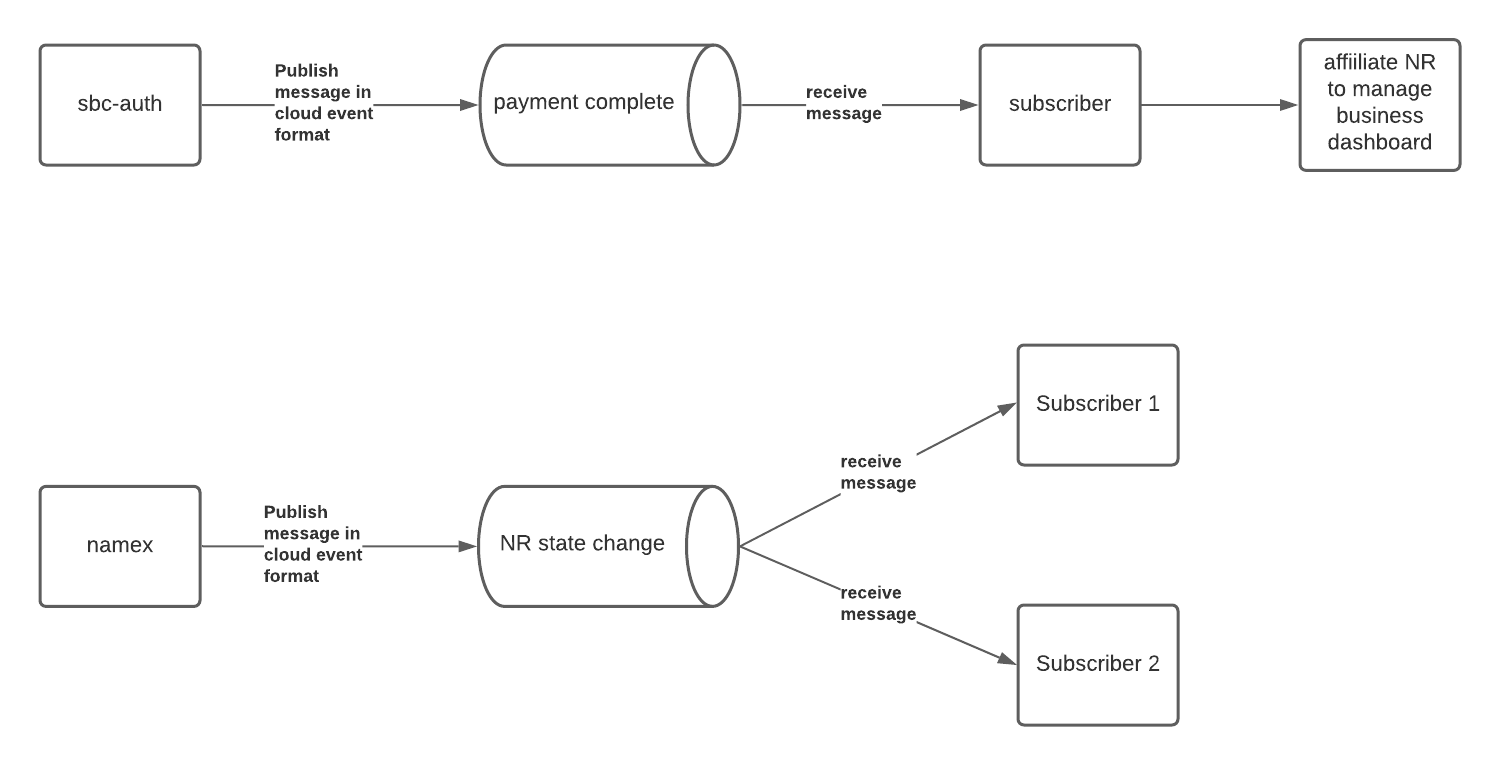
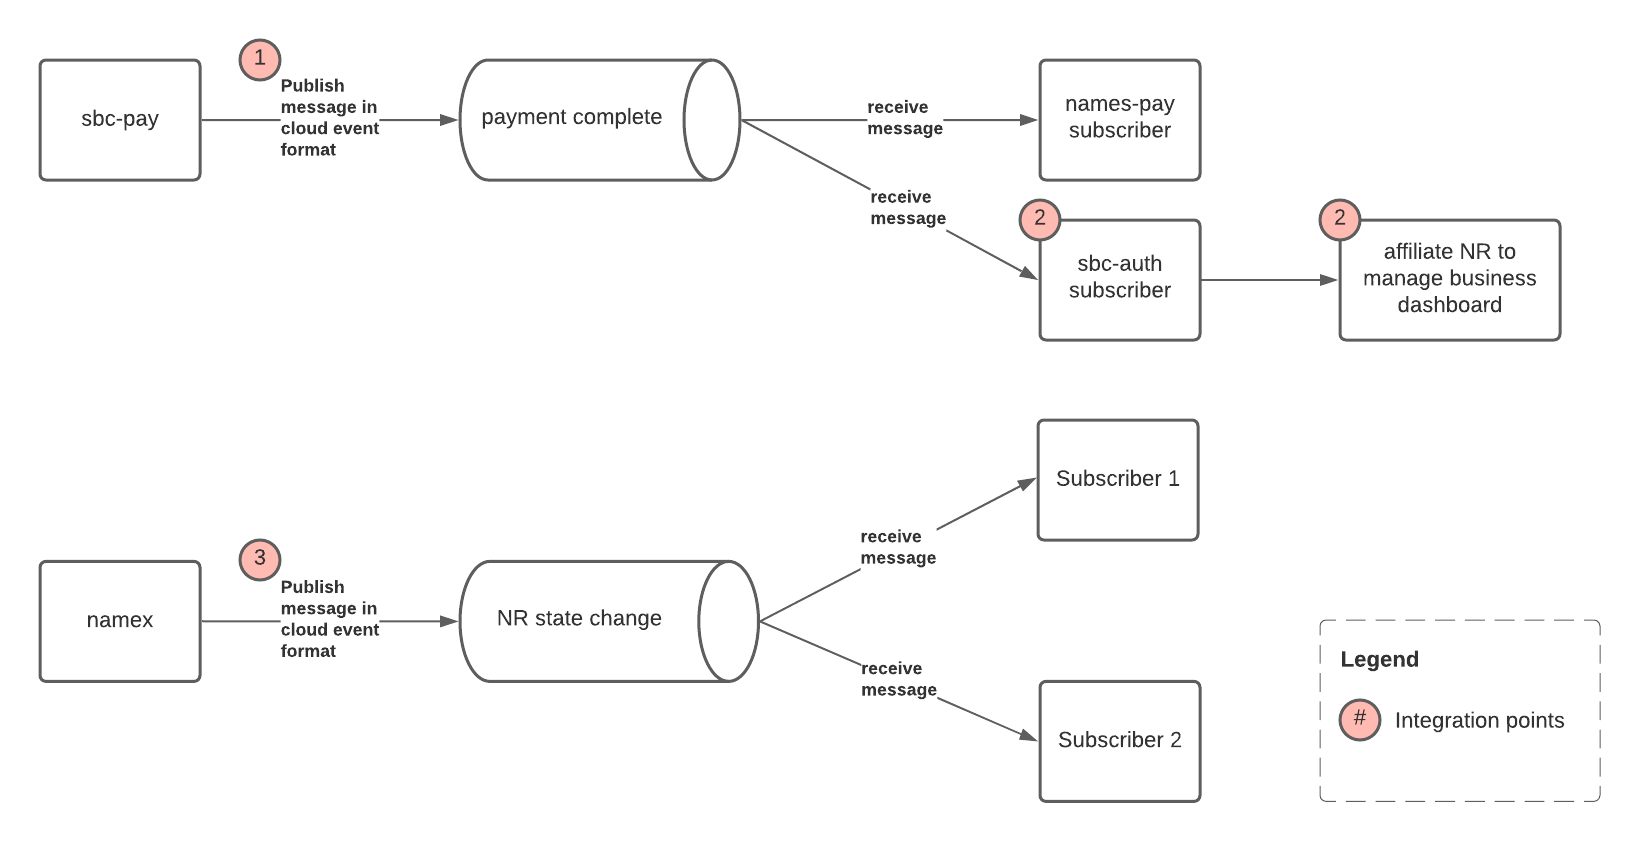
7984 Update diagram, add/update design details(integration points), add CloudEvent attributes usage section (WIP)

diff --git a/rfcs/rfc-cloud-events-for-name-request.md b/rfcs/rfc-cloud-events-for-name-request.md
@@ -1,12 +1,12 @@
 - Start Date: 2021-06-21
-- Target Major Version: 
+- Target Major Version:
 - Reference Issues: n/a
 - Entity Issue: https://github.com/bcgov/entity/issues/7975
 - Implementation PR: (leave this empty)
 
 # Summary
 
-Name Request will publish messages using the CloudEvent standard to a queue when a NR has been paid for or when a 
+Name Request will publish messages using the CloudEvent standard to a queue when a NR has been paid for or when a
 state change occurs for a NR.  The events will be published to a specific subject and relevant
 applications/services will be able to subscribe to the subject, consuming the events as required.
 
@@ -15,7 +15,7 @@ As such, some of the queue common code can be leveraged during implementation._
 
 # Basic example
 
-Example CloudEvent format currently being used by names pay service to publish a message to the entity emailer queue. 
+Example CloudEvent format currently being used by names pay service to publish a message to the entity emailer queue.
 
 ``` json
 
@@ -86,18 +86,129 @@ def create_cloud_event_msg(msg_id, msg_type, source, time, identifier, json_data
 
 # Motivation
 
-Implementing an event driven architecture through the use of queues allows us to decouple services and 
-reduce the likelihood of a single point of failure.  This architecture is also highly scaleable both from 
+Implementing an event driven architecture through the use of queues allows us to decouple services and
+reduce the likelihood of a single point of failure.  This architecture is also highly scaleable both from
 the perpsective that there is no need for point to point integration and that it is very easy
 to integrate new services that need to consume a certain type of message in an adhoc manner.
 
-In addition, the CloudEvent standard will provide a common messaging format that all developers can 
+In addition, the CloudEvent standard will provide a common messaging format that all developers can
 reference when implementing queue related logic for producing and consuming messages.
+
+
+# CloudEvent Attributes Usage (WIP)
+
+This section is intended to provide a general set of guidelines as to how the attributes of the CloudEvent payload should
+be used within the context of the development teams at BC Registries.  As such, this section will not contain an 
+exhaustive description of CloudEvent attributes.  For more details of CloudEvent attributes, please refer to the 
+CloudEvents specification as provided in the references section of this document.
+
+
+| Attribute Name  | Attribute Type | Data Type     | Example Value                        | Required | Notes      |
+|-----------------|----------------|---------------|--------------------------------------|----------|------------|
+| specversion     | context        | string        | 1.0.1                                | Y        |            |
+| source          | context        | URI-reference | /sbc_pay_api/invoice/<INVOICE_ID>    | Y        |            |
+| id              | context        | string        | 16fd2706-8baf-433b-82eb-8c7fada847da | Y        | use uuidv4 |
+| type            | context        | string        | bc.registry.nr_payment.complete      | Y        |            |
+| datacontenttype | context        | string        | application/json                     | N        |            |
+| time            | context        | timestamp     |                                      | N        |            |
+| identifier      | custom         |               |                                      | N        |            |
+| data            | data           |               | json data                            | N        |            |
+
+
+_**Additional details will go here to go over attributes that require my explanation around the nuances of how we use the
+attributes in our CloudEvent payloads**_
 
 
 # Detailed design
 
-![Name Request CloudEvents Diagram](rfc-cloud-events-for-name-request/cloud_events_diagram.png)
+The diagram below provides the flows that will need to be updated to support our CloudEvent implementation.  Specifically,
+the integration points are the areas where work will need to be done.
+
+![Integration Points Diagram](rfc-cloud-events-for-name-request/cloud_events_diagram.png)
+
+
+## Integration Point Details
+The following section details the expected formats of the CloudEvent payloads that need to be used at each integration point
+outlined in the CloudEvents Diagram above and any specific design details for the specific integration point.
+
+For details around the intended usage of the CloudEvent payload attributes, refer to the CloudEvent attribute usage section below.
+
+### Integration Point 1 - NR Payment Complete CloudEvent (WIP)
+The event at this integration point has already been implemented but will need to be updated to match the CloudEvent format below.  Updates will need to be made in the `PaymentTransaction.create_event_payload` function.
+
+**Current Implementation**
+``` python 
+
+@staticmethod
+def create_event_payload(invoice, status_code):
+    """Create event payload for payment events."""
+    payload = {
+        'paymentToken': {
+            'id': invoice.id,
+            'statusCode': status_code,
+            'filingIdentifier': invoice.filing_id
+        }
+    }
+    return payload
+
+```
+
+
+**CloudEvent Payload Format**
+
+``` json
+
+        {
+            "specversion": "1.0.1",
+            "type": "bc.registry.nr_payment.complete",
+            "source": "/sbc_pay_api/invoice/<INVOICE_ID>",
+            "id": "16fd2706-8baf-433b-82eb-8c7fada847da",
+            "time": "<PUBLISH_TIME>",
+            "datacontenttype": "application/json",
+            "identifier": "<FILING_ID>",
+            "data": {
+                "invoiceId": "<INVOICE_ID>"
+				   "filingId": "333333",
+            }
+        }
+
+```
+
+
+### Integration Point 2 - SBC Auth Subscriber & Affiliate NR to Manage Business Dashboard (WIP)
+
+At this integration point, the sbc-auth subscriber/listener will need to be updated to subscribe for the CloudEvent
+defined in integration point 1.  It will need to be able to parse the context and data attributes of the CloudEvent and 
+code to affiliate NR manage business dashboard will also need to be written.
+
+
+### Integration Point 3 - Publish NR State Change CloudEvent (WIP)
+
+The names-api will need to be updated such that any point where a state change occurs for an NR, a CloudEvent similar 
+to the one below is sent to the queue.  
+
+
+``` json
+
+        {
+            "specversion": "1.0.1",
+            "type": "bc.registry.nr_state.changed",
+            "source": "/namex_api/nr/6724165",
+            "id": "16fd2706-8baf-433b-82eb-8c7fada847da",
+            "time": "PUBLISH_TIME",
+            "datacontenttype": "application/json",
+            "identifier": "6724165",
+            "data": {
+                "nrNum": "6724165",
+                "previousState": "DRAFT"
+                "newState": "PAID"
+            }
+        }
+
+```
+
+
+
 
 
 # Drawbacks
@@ -105,11 +216,11 @@ reference when implementing queue related logic for producing and consuming mess
 Event publishing or consumption may not happen in a timely enough matter in particular scenarios.
 
 May be difficult to debug errors when trying to trace the publishing and consumption of messages.  Particularly in
-scenarios where there are a lot of messages being published and consumed.  
+scenarios where there are a lot of messages being published and consumed.
 
 _Note:  We are moving to implement spans across our queues which will allow tracebility through a common
 context.  Implementation of this feature is possible once our queue infrastructure has been upgraded to a version
-that supports spans._   
+that supports spans._
 
 
 # Alternatives
@@ -120,8 +231,8 @@ through api calls in instances where information needs to be pushed to other app
 
 # Adoption strategy
 
-Should be straightforward as we can reference names-pay and queues are already used in a lot of places.  As well, 
-as the use of queues is already a loosely coupled approach(i.e. consumers and producers don't know about each other), 
+Should be straightforward as we can reference names-pay and queues are already used in a lot of places.  As well,
+as the use of queues is already a loosely coupled approach(i.e. consumers and producers don't know about each other),
 the introduction of new messages and consumption of new messages should have minimal effects on other services and components.
 
 # Unresolved questions
@@ -129,7 +240,7 @@ the introduction of new messages and consumption of new messages should have min
 None
 
 
-# References 
+# References
 
 [CloudEvents - Version 1.0.1 Specification](https://github.com/cloudevents/spec/blob/v1.0.1/spec.md)
 
